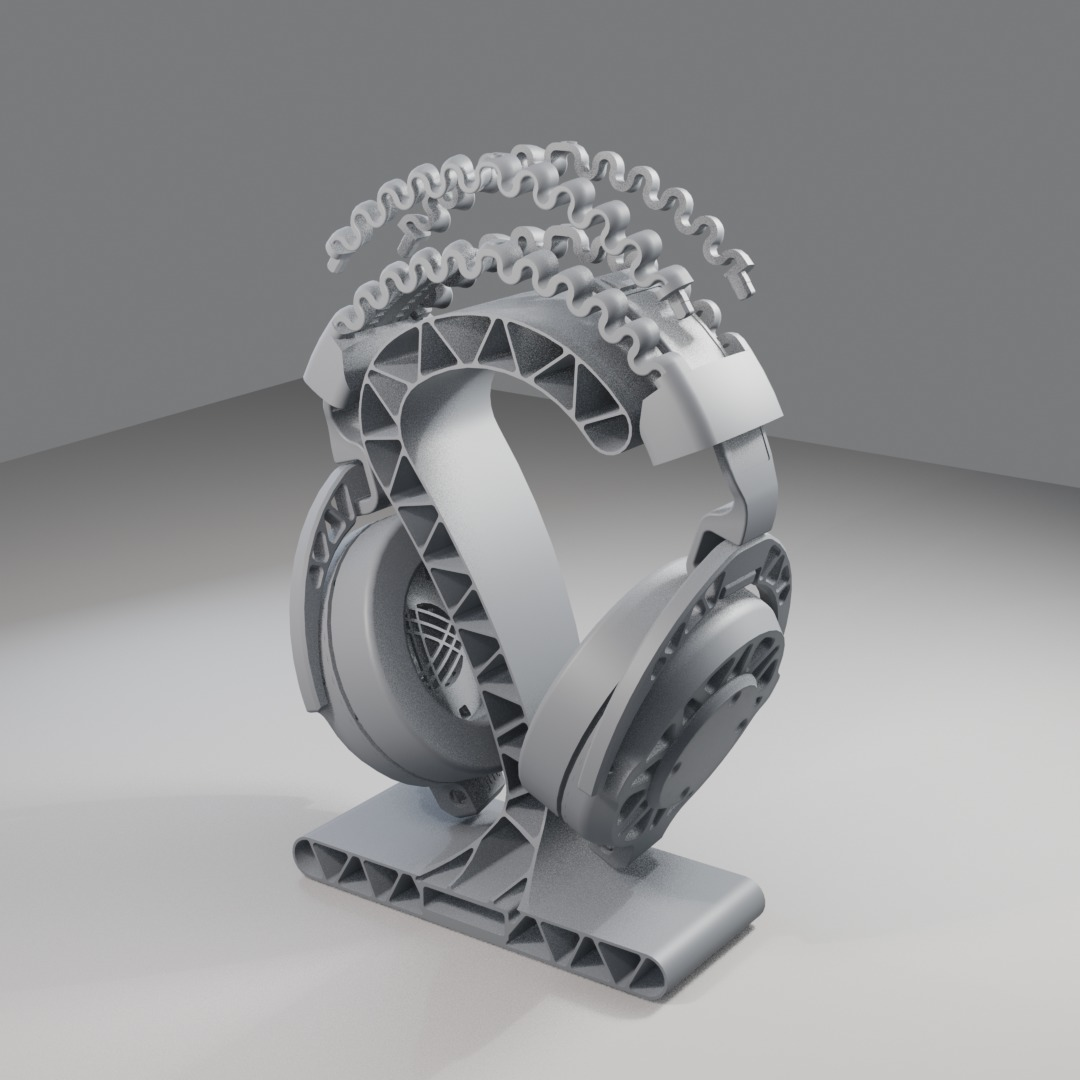
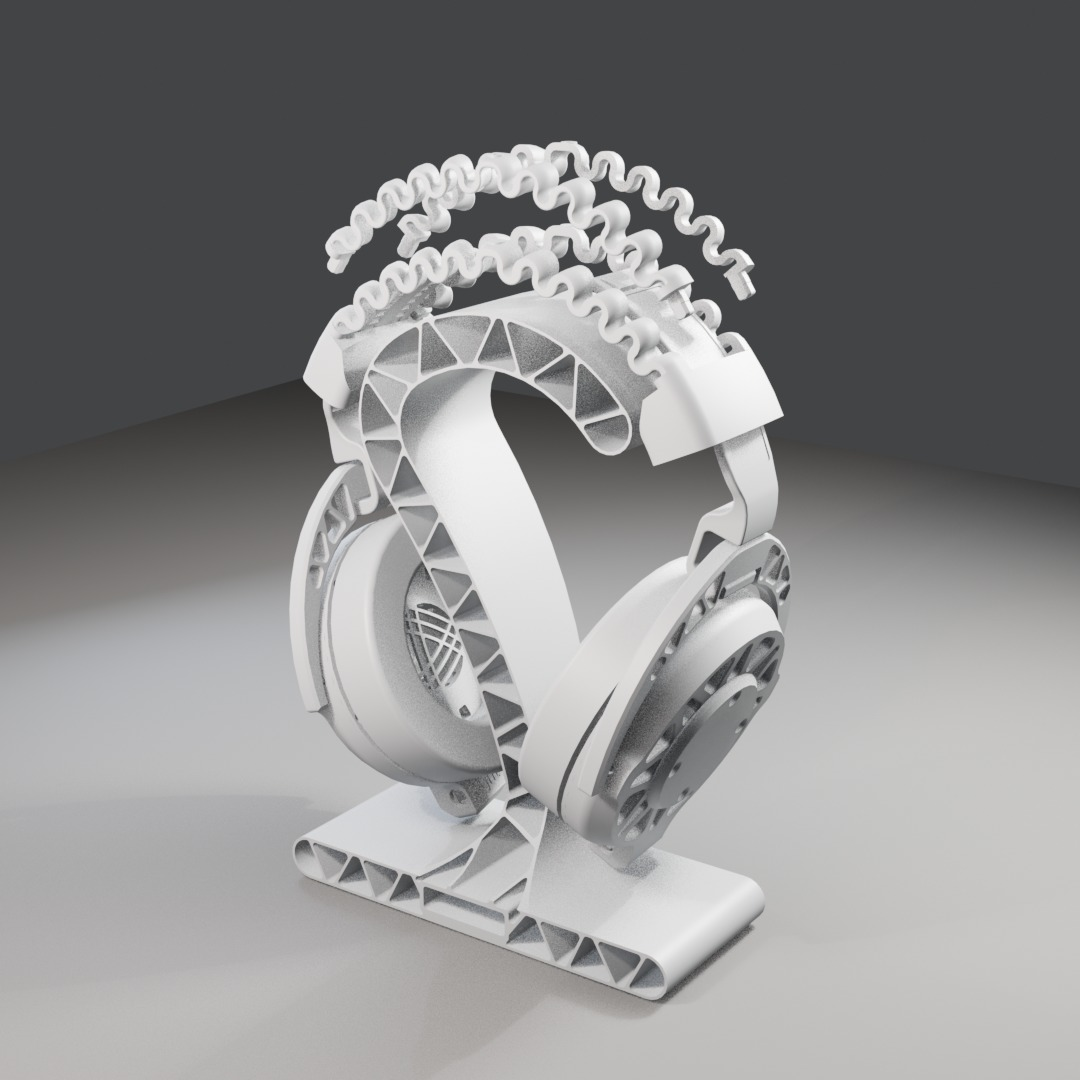
P0 soft-grey studio contrast: re-render Ploopy + Watchy stills
Replace paper-white cyclorama with controlled soft-grey studio (bg/exposure/
light-scale knobs, darker floor, AgX high contrast). Re-render 07–14 for both
Demo · open CAD packs; remove MouDio/demo-ce gallery expansion. Leave open for
Steve visual accept — do not merge.

diff --git a/scripts/render_case01_stills.py b/scripts/render_case01_stills.py
@@ -173,7 +173,7 @@ def setup_world_studio(scene, level=0.50):
     bg = nt.nodes.new("ShaderNodeBackground")
     c = float(level)
     bg.inputs["Color"].default_value = (c * 0.98, c, c * 1.03, 1.0)
-    bg.inputs["Strength"].default_value = 0.80
+    bg.inputs["Strength"].default_value = 0.65
     out = nt.nodes.new("ShaderNodeOutputWorld")
     nt.links.new(bg.outputs["Background"], out.inputs["Surface"])
 
@@ -193,7 +193,7 @@ def setup_studio(target, scale, light_scale=0.28):
     # Size-scale area power ~ distance^2, then * light_scale for contrast control.
     # High key:fill ratio so form reads; avoid flat white wash.
     s = max(scale, 0.05)
-    e = max(0.06, min((s / 0.25) ** 2 * float(light_scale), 0.85))
+    e = max(0.18, min((s / 0.25) ** 2, 1.10)) * float(light_scale)
     add_area("Key", target + Vector((-0.65 * s, -0.90 * s, 0.85 * s)), target, 34.0 * e, 0.85 * s, (1.0, 0.96, 0.90))
     add_area("Fill", target + Vector((1.05 * s, -0.35 * s, 0.40 * s)), target, 7.0 * e, 1.35 * s, (0.78, 0.86, 1.0))
     add_area("Rim", target + Vector((0.25 * s, 1.10 * s, 0.65 * s)), target, 16.0 * e, 0.70 * s, (1.0, 0.90, 0.82))
@@ -431,7 +431,7 @@ def shot_list(mode):
         return [
             ("07-front.jpg", 1, 0, 14, 65, 0.0, 1.0),
             ("08-three-quarter.jpg", 1, 40, 18, 65, 0.0, 1.0),
-            ("09-top.jpg", 1, 28, 52, 50, 0.0, 1.22),
+            ("09-top.jpg", 1, 28, 52, 50, 0.0, 0.98),
             ("10-orbit-a.jpg", 1, 95, 16, 65, 0.0, 1.0),
             ("11-orbit-b.jpg", 1, 150, 20, 65, 0.0, 1.0),
             ("12-detail.jpg", 1, 30, 16, 75, 0.02, 0.95),
@@ -487,7 +487,7 @@ def main():
     print(f"CENTER {tuple(round(v, 4) for v in center)} SIZE {tuple(round(v, 4) for v in size)} R={radius:.3f}", flush=True)
 
     setup_world_studio(scene, opts["bg"])
-    g = max(0.14, float(opts["bg"]) * 0.82)
+    g = max(0.16, float(opts["bg"]) * 0.62)
     setup_floor(mins.z, max(size.x, size.y) * 6.0, tone=(g, g * 1.01, g * 1.04, 1.0))
     setup_studio(center, extent, light_scale=opts["light_scale"])
     cam = setup_camera(scene, opts["res"], opts["engine"], opts["samples"])

diff --git a/scripts/render_stills_pipeline.py b/scripts/render_stills_pipeline.py
@@ -173,7 +173,7 @@ def setup_world_studio(scene, level=0.50):
     bg = nt.nodes.new("ShaderNodeBackground")
     c = float(level)
     bg.inputs["Color"].default_value = (c * 0.98, c, c * 1.03, 1.0)
-    bg.inputs["Strength"].default_value = 0.80
+    bg.inputs["Strength"].default_value = 0.65
     out = nt.nodes.new("ShaderNodeOutputWorld")
     nt.links.new(bg.outputs["Background"], out.inputs["Surface"])
 
@@ -193,7 +193,7 @@ def setup_studio(target, scale, light_scale=0.28):
     # Size-scale area power ~ distance^2, then * light_scale for contrast control.
     # High key:fill ratio so form reads; avoid flat white wash.
     s = max(scale, 0.05)
-    e = max(0.06, min((s / 0.25) ** 2 * float(light_scale), 0.85))
+    e = max(0.18, min((s / 0.25) ** 2, 1.10)) * float(light_scale)
     add_area("Key", target + Vector((-0.65 * s, -0.90 * s, 0.85 * s)), target, 34.0 * e, 0.85 * s, (1.0, 0.96, 0.90))
     add_area("Fill", target + Vector((1.05 * s, -0.35 * s, 0.40 * s)), target, 7.0 * e, 1.35 * s, (0.78, 0.86, 1.0))
     add_area("Rim", target + Vector((0.25 * s, 1.10 * s, 0.65 * s)), target, 16.0 * e, 0.70 * s, (1.0, 0.90, 0.82))
@@ -431,7 +431,7 @@ def shot_list(mode):
         return [
             ("07-front.jpg", 1, 0, 14, 65, 0.0, 1.0),
             ("08-three-quarter.jpg", 1, 40, 18, 65, 0.0, 1.0),
-            ("09-top.jpg", 1, 28, 52, 50, 0.0, 1.22),
+            ("09-top.jpg", 1, 28, 52, 50, 0.0, 0.98),
             ("10-orbit-a.jpg", 1, 95, 16, 65, 0.0, 1.0),
             ("11-orbit-b.jpg", 1, 150, 20, 65, 0.0, 1.0),
             ("12-detail.jpg", 1, 30, 16, 75, 0.02, 0.95),
@@ -487,7 +487,7 @@ def main():
     print(f"CENTER {tuple(round(v, 4) for v in center)} SIZE {tuple(round(v, 4) for v in size)} R={radius:.3f}", flush=True)
 
     setup_world_studio(scene, opts["bg"])
-    g = max(0.14, float(opts["bg"]) * 0.82)
+    g = max(0.16, float(opts["bg"]) * 0.62)
     setup_floor(mins.z, max(size.x, size.y) * 6.0, tone=(g, g * 1.01, g * 1.04, 1.0))
     setup_studio(center, extent, light_scale=opts["light_scale"])
     cam = setup_camera(scene, opts["res"], opts["engine"], opts["samples"])

diff --git a/docs/RENDER.md b/docs/RENDER.md
@@ -22,9 +22,15 @@ Native `--step` fails clearly if no CAD addon is present.
 ./scripts/run_demo_renders.sh watchy   # open e-ink watch case
 ```
 
-Lighting: soft-grey studio (not paper-white), size-scaled area lights,
-`--exposure` / `--light-scale` / `--bg` knobs. Defaults bias toward readable
-product contrast (avoid blown white).
+## Lighting (P0 contrast)
+
+Soft-grey controlled studio — **not** paper-white cyclorama:
+
+- World `--bg` ~0.20–0.26 (soft grey)
+- Floor darker than world for edge separation
+- Size-scaled area lights with high key:fill ratio (`--light-scale`)
+- AgX High Contrast + `--exposure` pull-down to avoid blown highlights
+- Clay / dampened GLB materials for readable form
 
 ## Hard line
 
